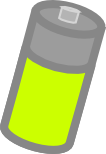
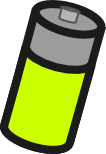
Tweaked battery colors

Changed region(s): [[0.0, 0.0, 1.0, 1.0]]

diff --git a/levels.js b/levels.js
@@ -1,1 +1,1 @@
-var level1 = {"platforms":[[-256,320,640,1920],[1216,384,512,1856],[384,1984,832,256],[-3968,320,3712,512]],"batteries":[[-832,192]]};
+var level1 = {"platforms":[[-256,320,640,1920],[1216,384,512,1856],[384,1984,832,256],[-3968,320,3712,512],[-192,-640,704,512]],"batteries":[[-832,192]]};
